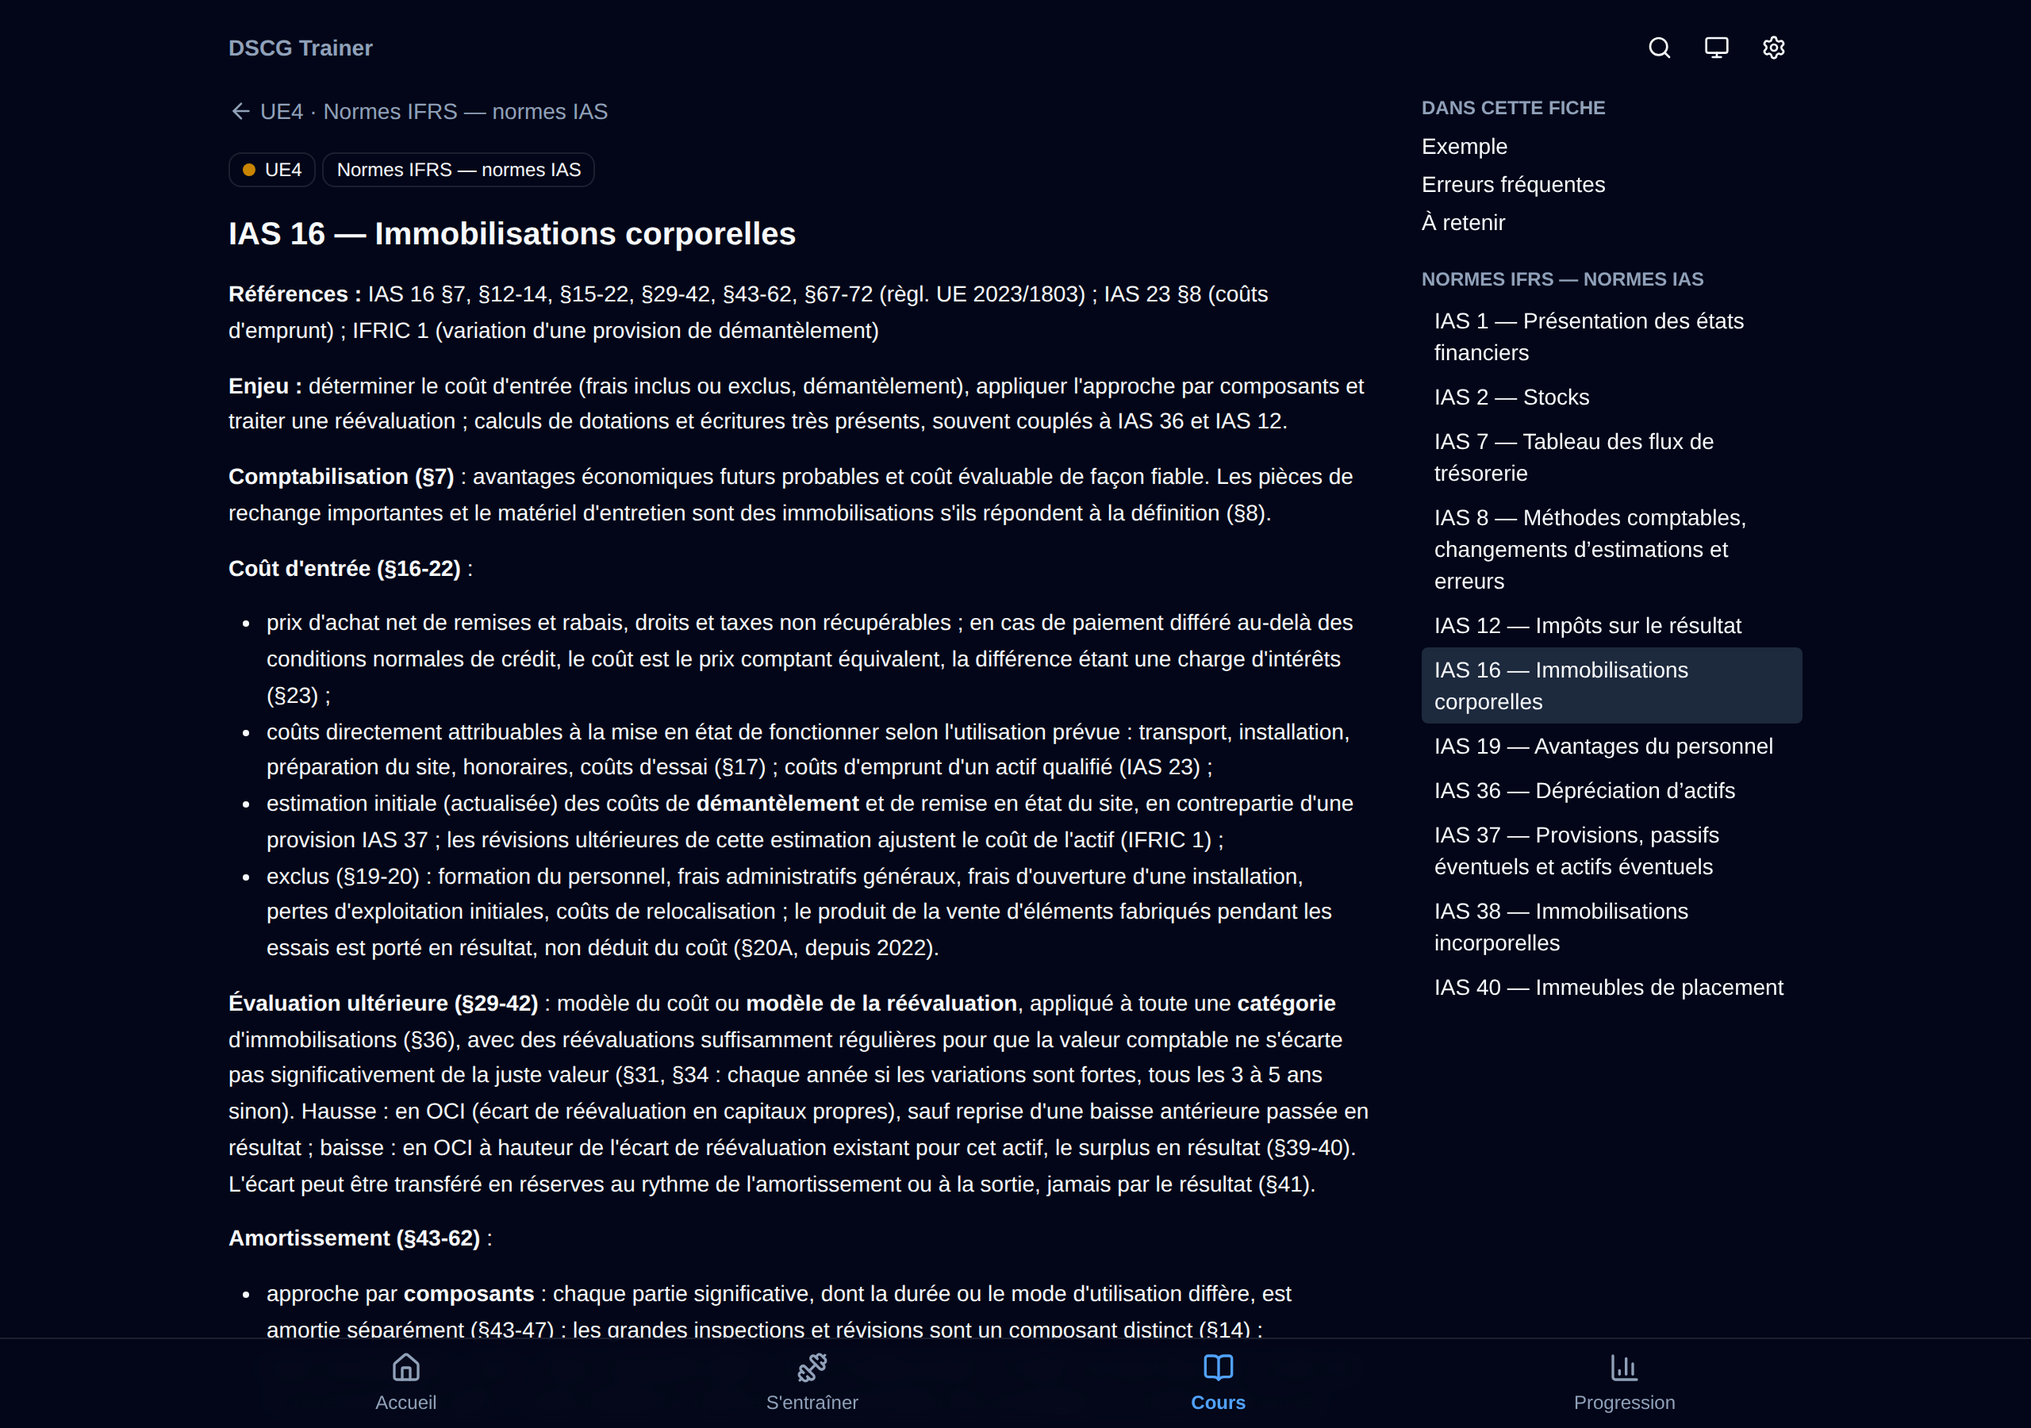
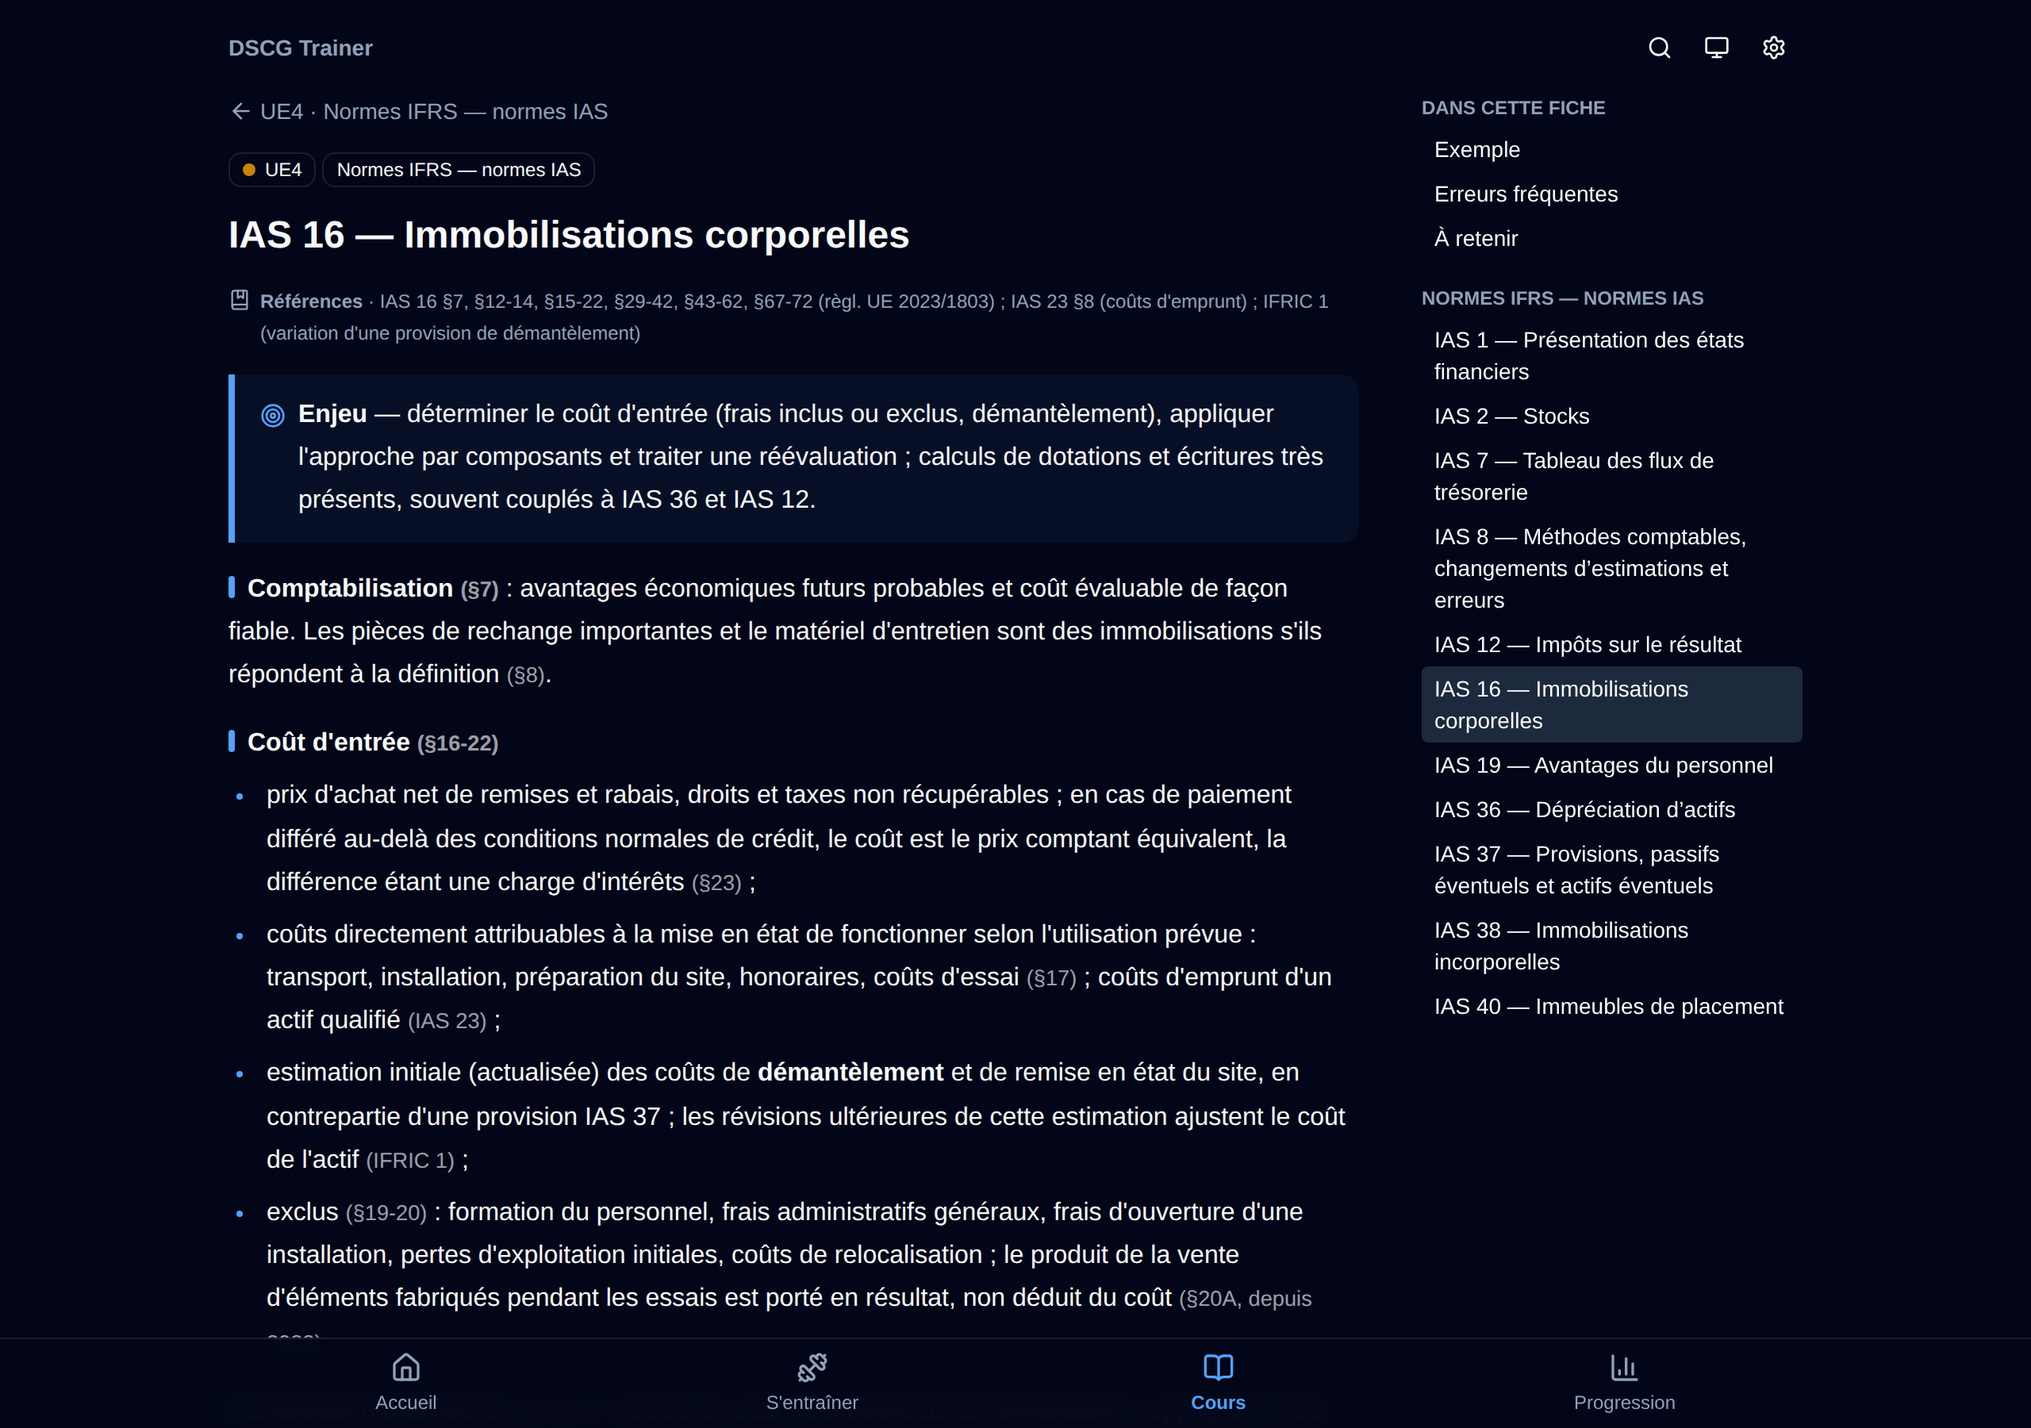
docs: version 1.3.0 — lisibilité des fiches (CHANGELOG, README, captures, guide de rédaction, CLAUDE.md, PROGRESS.md)
Claude-Session: https://claude.ai/code/session_014PfY4VL2VJZjKTiJyAyMUK

Changed region(s): [[0.0938, 0.1556, 0.6875, 0.9333], [0.6875, 0.0933, 0.9062, 0.7156]]

diff --git a/PROGRESS.md b/PROGRESS.md
@@ -1,6 +1,6 @@
 # PROGRESS — DSCG Trainer
 
-Dernière mise à jour : 2026-10-04, fin de la session phase 6 (cours enrichis et visuels, version 1.2.0). Phase 8 (exercices complémentaires) à venir, voir `docs/audit-v1.md`.
+Dernière mise à jour : 2026-10-04, lisibilité des fiches (version 1.3.0, demande de l'utilisateur après la phase 6). Phase 8 (exercices complémentaires) à venir, voir `docs/audit-v1.md`.
 
 ## État par phase
 
@@ -14,6 +14,7 @@ Dernière mise à jour : 2026-10-04, fin de la session phase 6 (cours enrichis e
 | 5. Finitions | Terminée : version 1.0.0 (voir ci-dessous) |
 | 7. Interface (audit v1) | Terminée : version 1.1.0 (voir ci-dessous) |
 | 6. Cours enrichis et visuels | Terminée : version 1.2.0 (voir ci-dessous) |
+| 6 bis. Lisibilité des fiches | Terminée : version 1.3.0 (voir ci-dessous) |
 | 8. Exercices complémentaires | À faire (phase suivante) |
 
 ## Phase 0 : ce qui est fait
@@ -128,6 +129,14 @@ L'audit `docs/audit-v1.md` (4 octobre 2026) a fixé trois phases hors SPEC, vali
 - **Interface** : bouton « S'entraîner » et navigation rendus avec la fiche (plus de décalage de mise en page) ; Lighthouse fiche de cours 96 en performance (90 en phase 7), CLS 0,07 (0,16), 100 ailleurs ; aucune erreur console. Captures `fiche.png` (mobile, diagramme) et `fiche-desktop.png` (sombre) refaites.
 - **Vérifications** : `npm run lint`, `validate` (271/271 fiches, 172 diagrammes, 1 400 exercices vérifiés), `typecheck`, 190 tests, build : tout vert.
 
+## Phase 6 bis : ce qui est fait (lisibilité des fiches)
+
+Demande de l'utilisateur après la v1.2.0 : « le visuel [des cours] doit gagner en clarté pour l'ensemble des notions ». Travail sur le rendu uniquement : aucun texte de fiche modifié, donc pas de relecture de contenu nécessaire.
+
+- **Mise en page structurée** (`src/components/CourseSheet.tsx`, lecture de la structure dans `src/content/courseSheet.ts` et `courseText.ts`) : références en tête discrète, enjeu en encadré, règles « **Libellé (§…)** : » titrées avec leur liste, formules isolées une par ligne, exemple en carte (une phrase par ligne pour les paragraphes longs, phrases de calcul détachées et alignées), erreurs fréquentes découpées « erreur → bonne règle » (1 004 puces sur 1 067 ont cette forme ; les autres restent entières), points à retenir cochés, notions liées en pastilles, glossaire UE 6 en liste de définitions et fiche UE 6 déclarée `lang="en"`. Renvois entre parenthèses atténués, espaces insécables dans les montants et avant « : ; », raccourcis vers les sections sur mobile, sommaire cliquable sur grand écran. Page d'impression d'une UE sur la même mise en page.
+- **Diagrammes** : barres en HTML (libellés et valeurs en texte, le SVG réduit les rendait illisibles sur téléphone) ; organigrammes en HTML avec liens SVG mesurés, flèches de sens, liens réciproques en parallèle, contournement des boîtes, pastilles sans chevauchement ; correction du calcul des niveaux qui bouclait sur les liens réciproques (apport partiel d'actif, LBO : schéma de plusieurs milliers de pixels).
+- **Vérifications** : les 271 fiches rendues dans Chromium sur mobile (390 px) : toutes ont enjeu, exemple, erreurs, à retenir et notions liées habillés, aucune erreur console, aucun débordement horizontal (l'étiquette de thème débordait sur 30 fiches, corrigé) ; Lighthouse sur quatre fiches : 94-95 / 100 / 100 / 100 ; 199 tests verts, lint, validate, build.
+
 ## Décisions prises (et pourquoi)
 
 1. **Programme de référence : arrêté du 4 août 2025** (BOESR n° 32 du 28/08/2025, NOR MENS2523324A). Il s'applique aux épreuves du DSCG à partir de la session 2027, celle que Max préparera ; il remplace l'arrêté du 13/02/2019.
@@ -185,6 +194,9 @@ L'audit `docs/audit-v1.md` (4 octobre 2026) a fixé trois phases hors SPEC, vali
 45. **(Phase 6) Diagrammes seulement quand la notion s'y prête** (environ deux fiches sur trois, 172) : pas de diagramme décoratif ; le relecteur vérifie chaque libellé. Les notions purement lexicales (UE 6 vocabulaire) ou purement textuelles n'en ont pas.
 46. **(Phase 6) Droit à jour à la date de la session, vérifié par recherche web** : quand un relecteur établit qu'une règle a changé (IFRS 18, Omnibus I, omnibus IA, décret 2024-152…), la fiche est mise à jour et les exercices de la notion sont contrôlés dans la foulée (grep sur les chiffres ou dates concernés) ; seuls deux exercices (fusions) ont dû être corrigés. Les numéros d'articles non confirmés restent cités sans numéro (décision 23), et la date du jour (« à ce jour ») est écrite quand un texte est en cours (NIS 2).
 47. **(Phase 6) Reprise des lots interrompus sur l'arbre de travail** plutôt que depuis zéro : le rédacteur de reprise relit et recalcule les fiches déjà écrites, puis termine le lot ; le relecteur repart toujours de zéro. Aucun commit avant relecture, même sur demande du hook de fin de tour.
+48. **(Phase 6 bis) La structure des fiches pilote leur mise en page** : plutôt que d'ajouter des balises dans 271 fichiers, le rendu reconnaît les libellés réservés et les sections du guide ; une fiche qui s'en écarte reste lisible (blocs rendus tels quels). Contrepartie : la forme des libellés, des erreurs « erreur : bonne règle » et des séparateurs « · » et « ; » est désormais une règle du guide.
+49. **(Phase 6 bis) Diagrammes textuels en HTML** : le texte d'un SVG réduit à la largeur d'un téléphone tombait sous 8 px ; les barres et les organigrammes passent en HTML, le SVG ne sert plus qu'aux traits.
+50. **(Phase 6 bis) Version 1.3.0** pour ce lot ; la phase 8 portera la version 1.4.0.
 
 ## Points ouverts / à vérifier
 
@@ -202,7 +214,7 @@ L'audit `docs/audit-v1.md` (4 octobre 2026) a fixé trois phases hors SPEC, vali
 
 - Voir `docs/audit-v1.md` § 3. Environ 150 exercices sur les notions qui n'en ont que 3 ou 4 (UE 1, 5 et 6 ; `npm run validate` affiche les comptes par notion, `exerciseCount()` côté app) pour que chaque notion atteigne au moins 5 à 6 exercices et que les sessions par notion aient du sens.
 - Méthode inchangée : lots par thème (une dizaine), rédacteur puis relecteur indépendant qui recalcule chaque réponse, `verified: true` seulement après relecture, un commit par lot ; répartition des types et difficultés de `CLAUDE.md`, règles de `docs/content-guide.md` (les fiches enrichies servent désormais de base : s'appuyer sur leurs exemples et erreurs fréquentes sans les recopier). Ids nouveaux à la suite des numéros existants.
-- Fin de phase : `validate:strict`, lint, tests, build, CHANGELOG 1.3.0, README (nombre d'exercices), PROGRESS.md, PR, CI, fusion.
+- Fin de phase : `validate:strict`, lint, tests, build, CHANGELOG 1.4.0, README (nombre d'exercices), PROGRESS.md, PR, CI, fusion.
 
 ## Budget consommé (estimation)
 
@@ -214,4 +226,5 @@ L'audit `docs/audit-v1.md` (4 octobre 2026) a fixé trois phases hors SPEC, vali
 - Phase 5 : environ 20 à 30 $ (cible SPEC : 15 $, dépassement accepté pour finir proprement). 5 sous-agents (vérification des points ouverts et relecture, harmonisation des comptes ANC 2022-06 et relecture), le reste en travail direct (code, Lighthouse, captures).
 - Phase 7 : environ 35 à 45 $ (estimation de l'audit : 40 à 60 $). Aucun sous-agent : travail direct.
 - Phase 6 : environ 110 à 140 $ (estimation de l'audit : 80 à 110 $). Environ 72 sous-agents (27 rédactions, 27 relectures, 18 relances après deux limites d'usage), de 90 000 à 140 000 tokens chacun ; le dépassement vient des relances et des recherches web des relecteurs (droit 2026). Le reste en travail direct (plan, briefs, commits, Lighthouse, captures).
-- Cumul estimé : environ 370 à 470 $. L'utilisateur a accepté de dépasser le budget initial de 250 $ pour les phases 6 à 8 (audit : 155 à 215 $ pour les trois ; reste la phase 8, estimée 35 à 45 $).
+- Phase 6 bis (lisibilité des fiches) : environ 15 à 25 $. Aucun sous-agent : travail direct (code, captures, contrôle des 271 fiches dans le navigateur).
+- Cumul estimé : environ 385 à 495 $. L'utilisateur a accepté de dépasser le budget initial de 250 $ pour les phases 6 à 8 (audit : 155 à 215 $ pour les trois ; reste la phase 8, estimée 35 à 45 $).

diff --git a/CLAUDE.md b/CLAUDE.md
@@ -38,7 +38,7 @@ PWA d'entraînement au DSCG (React 18 + TypeScript + Vite, Tailwind + shadcn/ui,
 - `scripts/validate-content.ts` : `npm run validate`.
 - `src/db/db.ts` : Dexie (`attempts`, `reviews`, `sessions`) + export/import JSON ; `src/db/progress.ts` : lecture de la progression (`useProgress`, en direct).
 - `src/engine/` : moteur pur, testé sans UI. `parts.ts` découpe chaque exercice en parties notées (choix, vrai/faux, calcul, écriture, réponse rédigée, flashcard) ; `grading.ts` corrige chaque partie et combine selon le barème (seuil de réussite des exercices composites : `PASS_THRESHOLD` = 70 %) ; `session.ts` / `sessionConfig.ts` construisent les sessions (rapide, thème, révision intelligente, erreurs, examen blanc ; graine dans l'URL `/session?mode=…&seed=…`) ; `recorder.ts` écrit tentatives et sessions dans IndexedDB et met à jour la répétition espacée ; `srs.ts` : SM-2 par notion, une revue par jour ; `stats.ts` : taux, maîtrise, série, historique. `week.test.ts` simule une semaine d'usage.
-- `src/content/diagram.ts` / `diagramSchema.ts` : diagrammes des fiches (blocs ```diagram, cinq formes), rendus par `src/components/Diagram.tsx` ; `src/content/pcg.ts` : comptes PCG pour l'autocomplétion ; `src/lib/settings.ts` : réglages (localStorage) ; table `marks` (marque-pages, fiches lues) dans `src/db/db.ts`.
+- `src/content/diagram.ts` / `diagramSchema.ts` : diagrammes des fiches (blocs ```diagram, cinq formes), rendus par `src/components/Diagram.tsx` ; mise en page des fiches : `src/components/CourseSheet.tsx` (lecture de la structure dans `src/content/courseSheet.ts` et `courseText.ts`, Markdown minimal dans `src/lib/markdown.tsx`) ; `src/content/pcg.ts` : comptes PCG pour l'autocomplétion ; `src/lib/settings.ts` : réglages (localStorage) ; table `marks` (marque-pages, fiches lues) dans `src/db/db.ts`.
 - `src/engine/search.ts` : recherche plein texte (page `/recherche`). `src/lib/theme.ts` : mode sombre (script anti-flash dans `index.html`). `src/lib/report.ts` : lien « signaler une erreur » (issue GitHub pré-remplie).
 - Nombres d'exercices par UE / thème / notion calculés au build (`__EXERCISE_COUNTS__` dans `vite.config.ts`, lus par `exerciseCount()`) ; écrans chargés à la demande (`React.lazy` dans `App.tsx`) ; Zod reste hors du fichier JS principal (ne pas importer `schema.ts` depuis l'accueil ou la mise en page).
 - `src/components/exercise/` : `ExercisePlayer` (énoncé + parties enchaînées + correction) et `parts.tsx` (un composant de saisie/correction par genre de partie). Ajouter un type d'exercice = l'ajouter au schéma, à `exerciseParts()` et à l'en-tête `Statement`.

diff --git a/README.md b/README.md
@@ -2,7 +2,7 @@
 
 Application web installable (PWA) pour s'entraîner au DSCG : audit, comptabilité, IFRS, consolidation, finance, droit, fiscalité, contrôle de gestion, systèmes d'information et anglais des affaires. Elle fonctionne hors ligne sur téléphone et ordinateur ; la progression reste dans le navigateur.
 
-**Site :** https://maxprot18.github.io/dscg-trainer/ · version 1.2.0 ([journal des versions](CHANGELOG.md))
+**Site :** https://maxprot18.github.io/dscg-trainer/ · version 1.3.0 ([journal des versions](CHANGELOG.md))
 
 <p>
   <img src="docs/screenshots/accueil.png" alt="Accueil : objectif du jour, série et contenu disponible" width="200">
@@ -21,7 +21,7 @@ Application web installable (PWA) pour s'entraîner au DSCG : audit, comptabilit
 
 - **S'entraîner** : session rapide (10 questions, 5 minutes), session par UE, thème ou notion, **révision intelligente** par répétition espacée (SM-2), **mode erreurs**, **flashcards**, **examen blanc** chronométré à la durée de l'épreuve, noté sur 20, corrigé à la fin et reprenable s'il est interrompu.
 - **Progression** : objectif quotidien, taux de réussite par UE, thème, notion et type d'exercice, carte de chaleur du programme, activité des huit dernières semaines, série de jours, historique des sessions, export et import JSON.
-- **Cours** : entrée par UE, une fiche par notion avec diagrammes, maîtrise et fiches lues, notions précédente et suivante, lien direct vers les exercices, fiches d'une UE à imprimer.
+- **Cours** : entrée par UE, une fiche par notion mise en page par partie (enjeu, règles, exemple résolu, erreurs fréquentes, à retenir) avec diagrammes, maîtrise et fiches lues, notions précédente et suivante, lien direct vers les exercices, fiches d'une UE à imprimer.
 - **Qualité de vie** : mode sombre, recherche plein texte (raccourci « / »), raccourcis clavier (1-9 pour répondre, Entrée pour valider), autocomplétion des comptes PCG dans les écritures, marque-pages « à revoir plus tard », bouton « signaler une erreur » qui ouvre une issue GitHub pré-remplie, bandeau de mise à jour.
 
 <p>

diff --git a/docs/content-guide.md b/docs/content-guide.md
@@ -35,6 +35,7 @@ Une fiche par notion, écrite **avant** les exercices de la notion (les exercice
 **Notions liées :** [IAS 36 — Dépréciation d'actifs](/cours/ias-36-depreciation) · [Amortissements en PCG](/cours/amortissements-depreciations-pcg)
 ```
 
+- **Mise en page automatique** (`CourseSheet`) : l'application reconnaît cette structure, il faut donc la respecter à la lettre. Libellés réservés en gras en tête de paragraphe, suivis de deux-points (« **Références :** », « **Enjeu :** », « **Formules clés :** », « **Notions liées :** », UE 6 : « **References:** », « **Key issue:** », « **Key formulas:** », « **Glossary:** », « **Related topics:** ») ; une règle titrée s'écrit « **Libellé (§…)** : texte » ou « **Libellé** : » suivi d'une liste ; plusieurs formules sont séparées par « ; » ; chaque erreur fréquente s'écrit « erreur : bonne règle » (le premier deux-points hors parenthèses sépare les deux) ; notions liées et glossaire sont séparés par « · ». Les renvois entre parenthèses (« (§16-22) », « (art. L. 225-38) ») sont affichés en retrait : les garder entre parenthèses.
 - **Liens internes** : `[titre](/cours/<id-notion>)`, uniquement vers des notions de la taxonomie (le validateur refuse les autres). 1 à 4 notions liées, choisies parce qu'elles se confondent ou se complètent (même thème ou autre UE).
 - **Diagramme** (quand la notion s'y prête ; environ une notion sur deux) : un bloc ```` ```diagram ```` contenant un JSON validé par `npm run validate`, placé après les règles qu'il illustre. Cinq formes (schéma complet : `src/content/diagramSchema.ts`) :
   - `timeline` : `{"type":"timeline","title":"…","items":[{"when":"J+45","label":"…","note":"…"}]}` (2 à 10 étapes) ;

diff --git a/CHANGELOG.md b/CHANGELOG.md
@@ -1,5 +1,14 @@
 # Journal des versions
 
+## 1.3.0 (octobre 2026)
+
+Lisibilité des fiches de cours.
+
+- **Mise en page structurée des 271 fiches** : références discrètes en tête, enjeu en encadré, règles titrées, formules isolées une par ligne, exemple en carte avec les calculs détachés, erreurs fréquentes présentées « erreur → bonne règle », points à retenir cochés, notions liées en pastilles, glossaire de l'UE 6 en deux colonnes.
+- Renvois aux articles et paragraphes atténués dans le texte, montants jamais coupés en fin de ligne, raccourcis vers les sections sur téléphone, sommaire cliquable sur grand écran.
+- **Diagrammes lisibles sur téléphone** : barres avec libellés et valeurs en texte, organigrammes avec flèches de sens, liens réciproques et liens contournant les boîtes.
+- Page d'impression d'une UE sur la même mise en page ; étiquette de thème qui débordait sur mobile corrigée.
+
 ## 1.2.0 (octobre 2026)
 
 Cours enrichis et visuels, deuxième phase issue de l'audit de la version 1.0 (`docs/audit-v1.md`).
